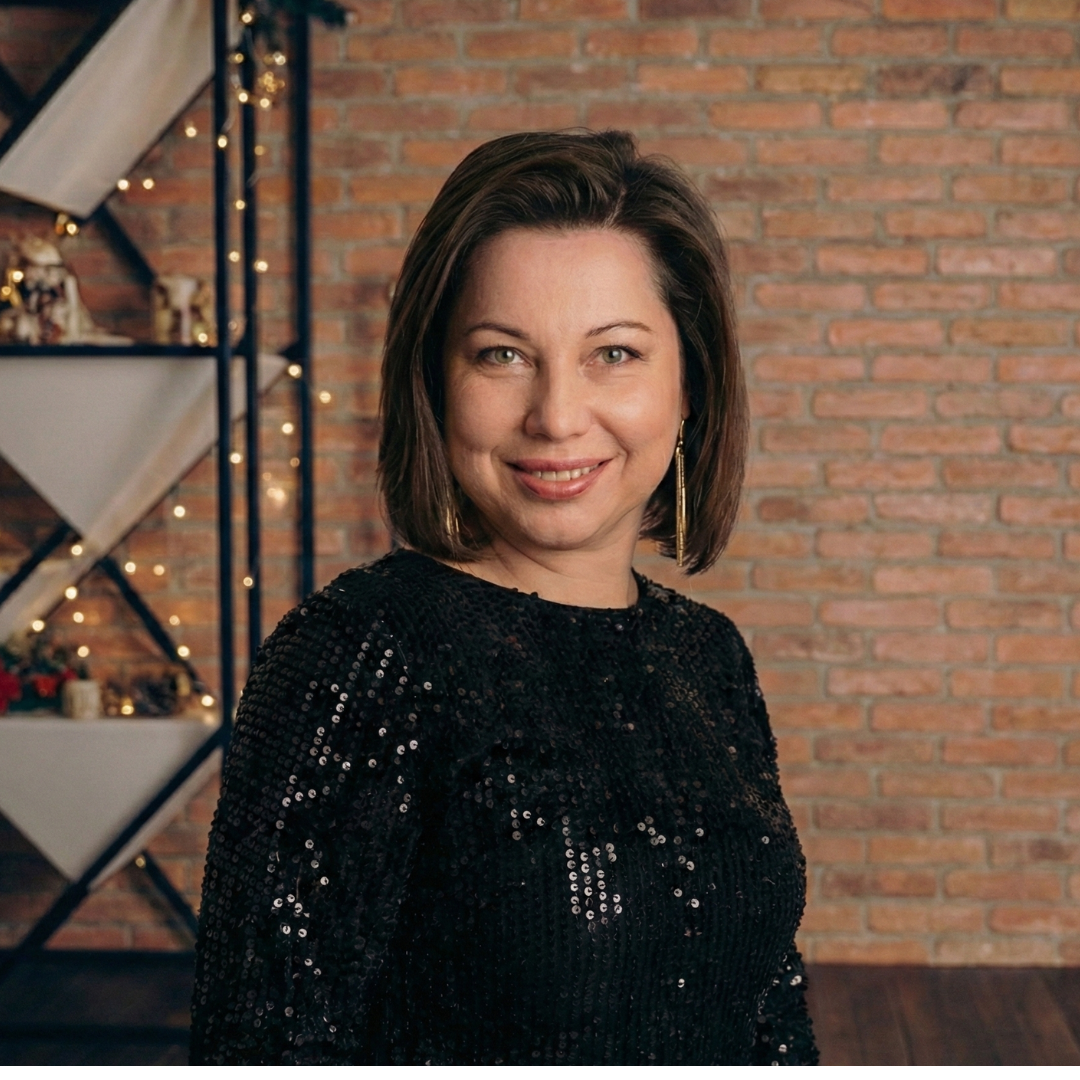
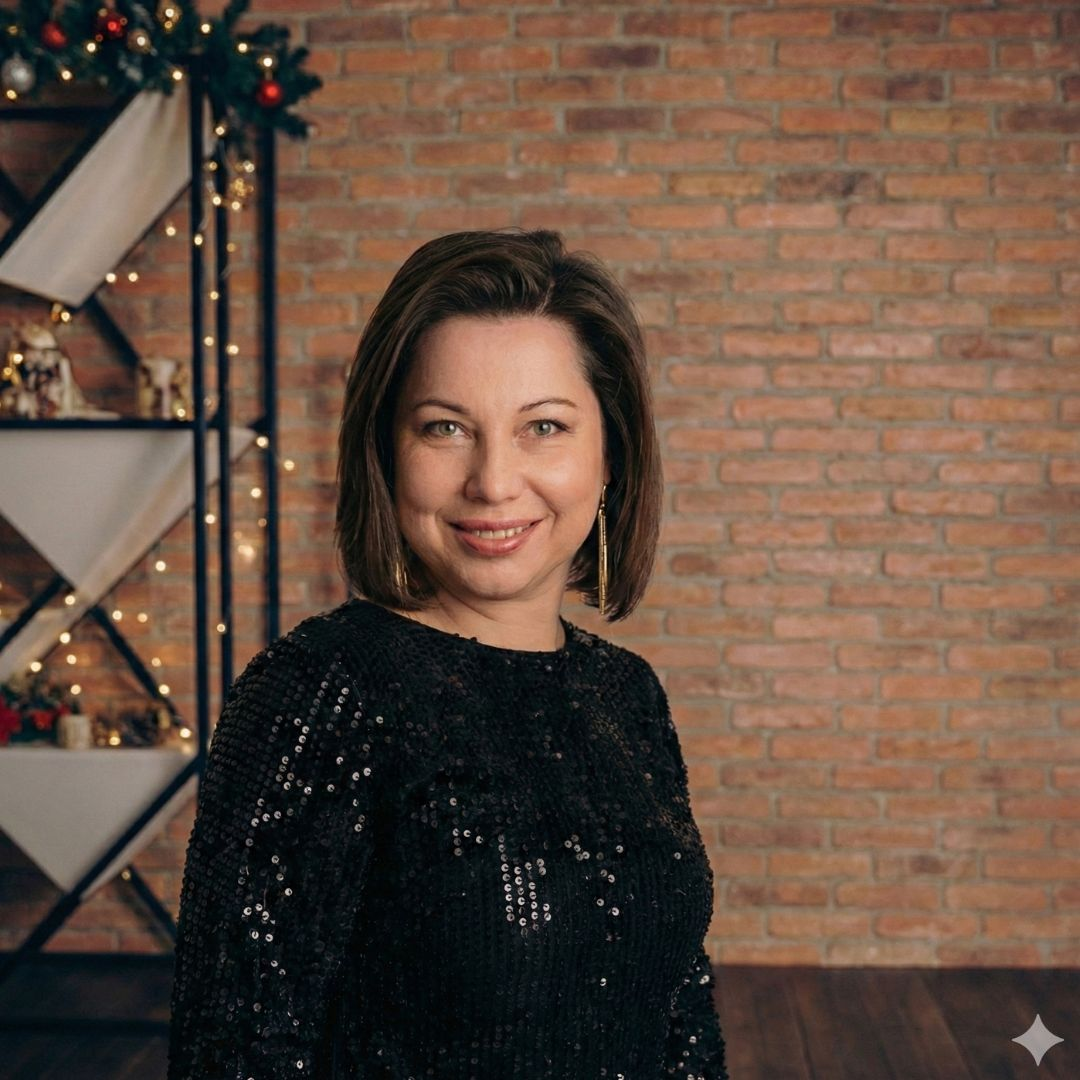
Оновлено фото профілю та дизайн хедера(текст Нумеролог (enter) Анна Бондаренко)

diff --git a/index.html b/index.html
@@ -56,7 +56,7 @@
     <header class="bg-navy text-ivory py-6 px-4 sticky top-0 z-50 shadow-md">
         <div class="max-w-6xl mx-auto flex flex-col md:flex-row justify-between items-center gap-4">
             <div class="text-xl md:text-2xl font-bold tracking-widest text-gold uppercase text-center md:text-left">
-                Нумеролог Анна Бондаренко
+                Нумеролог <br class="md:hidden"> Анна Бондаренко
             </div>
             <nav class="hidden md:flex space-x-8 font-medium">
                 <a href="#about" class="hover:text-gold transition">Про мене</a>
@@ -73,9 +73,16 @@
             <!-- PROFILE PHOTO -->
             <div class="relative inline-block mb-10">
                 <div class="absolute inset-0 bg-gold rounded-full blur-lg opacity-20 animate-pulse"></div>
-                <img src="profile.jpg" alt="Анна Бондаренко"
-                     class="relative w-48 h-48 md:w-64 md:h-64 rounded-full object-cover border-4 border-gold shadow-2xl mx-auto"
-                     onerror="this.src='https://via.placeholder.com/300?text=Profile+Photo'">
+
+                <!-- Контейнер-коло з overflow-hidden (щоб фото не вилазило за рамки) -->
+                <div class="relative w-56 h-56 md:w-72 md:h-72 rounded-full border-4 border-gold shadow-2xl mx-auto overflow-hidden">
+
+                    <!-- style="transform: scale(1.2)" — це збільшення на 20% -->
+                    <img src="profile.jpg" alt="Анна Бондаренко"
+                         class="w-full h-full object-cover object-center"
+                         style="transform: scale(1.1);"
+                         onerror="this.src='https://via.placeholder.com/300?text=Profile+Photo'">
+                </div>
             </div>
 
             <div class="text-lg md:text-xl text-gray-800 max-w-3xl mx-auto mb-10 leading-relaxed space-y-4">
